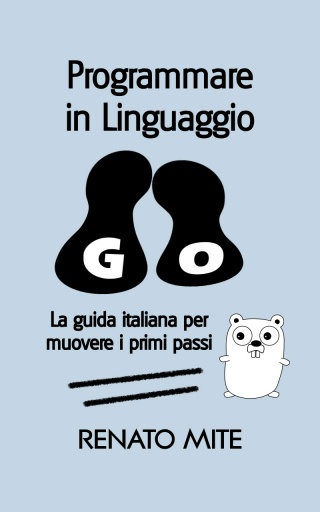
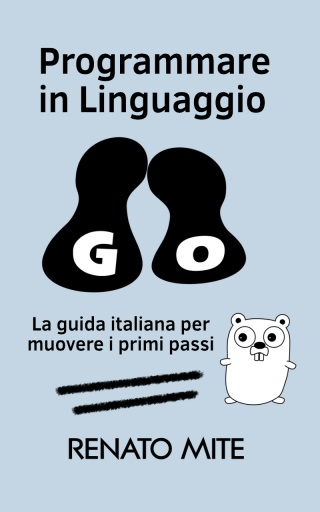
Aggiornati Readme e Copertina.

Changed region(s): [[0.0625, 0.0938, 0.9375, 0.9062]]

diff --git a/README.md b/README.md
@@ -9,7 +9,7 @@ Questo repository contiene il **codice di esempio** descritto nella guida **"Pro
 
 <p align="center"><img src="go-guide-cover.jpg" /></p>
 
-La guida **"Programmare in Linguaggio Go"** è disponibile su [Amazon][guide-amazon], [GooglePlay][guide-goplay] e [Kobo][guide-kobo].
+La guida **"Programmare in Linguaggio Go"** è disponibile in ebook su [Amazon][guide-amazon], [GooglePlay][guide-goplay] e [Kobo][guide-kobo], in libro cartaceo su [Amazon][guide-amazon].
 
 Go è un linguaggio dai notevoli [punti di forza][go-strengths] e la guida è pensata per tutti coloro che vogliono apprendere questo nuovo linguaggio di programmazione, siano aspiranti programmatori o programmatori esperti. Descrive **le specifiche e le peculiarità di Go** in modo graduale, in un percorso che va dai valori ai packages, passando per array, slice, map, puntatori, goroutines e canali.
 
